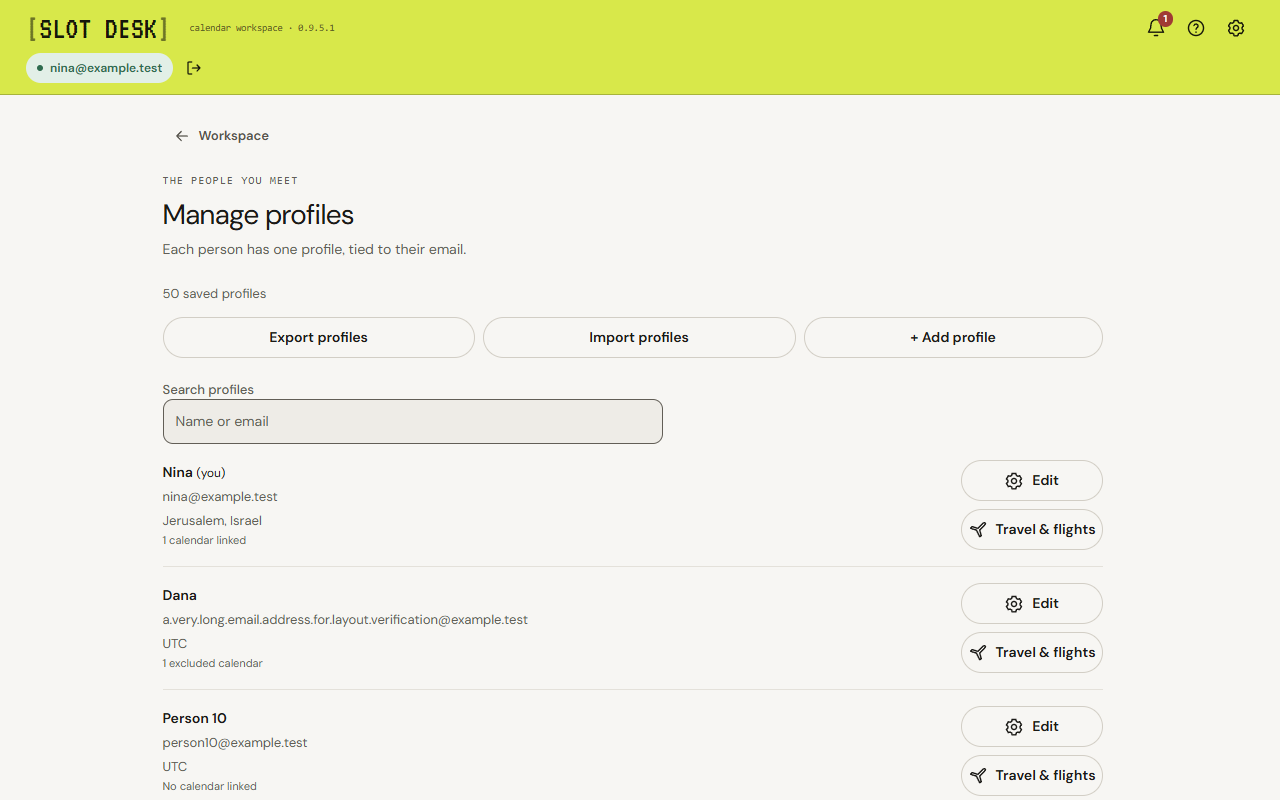
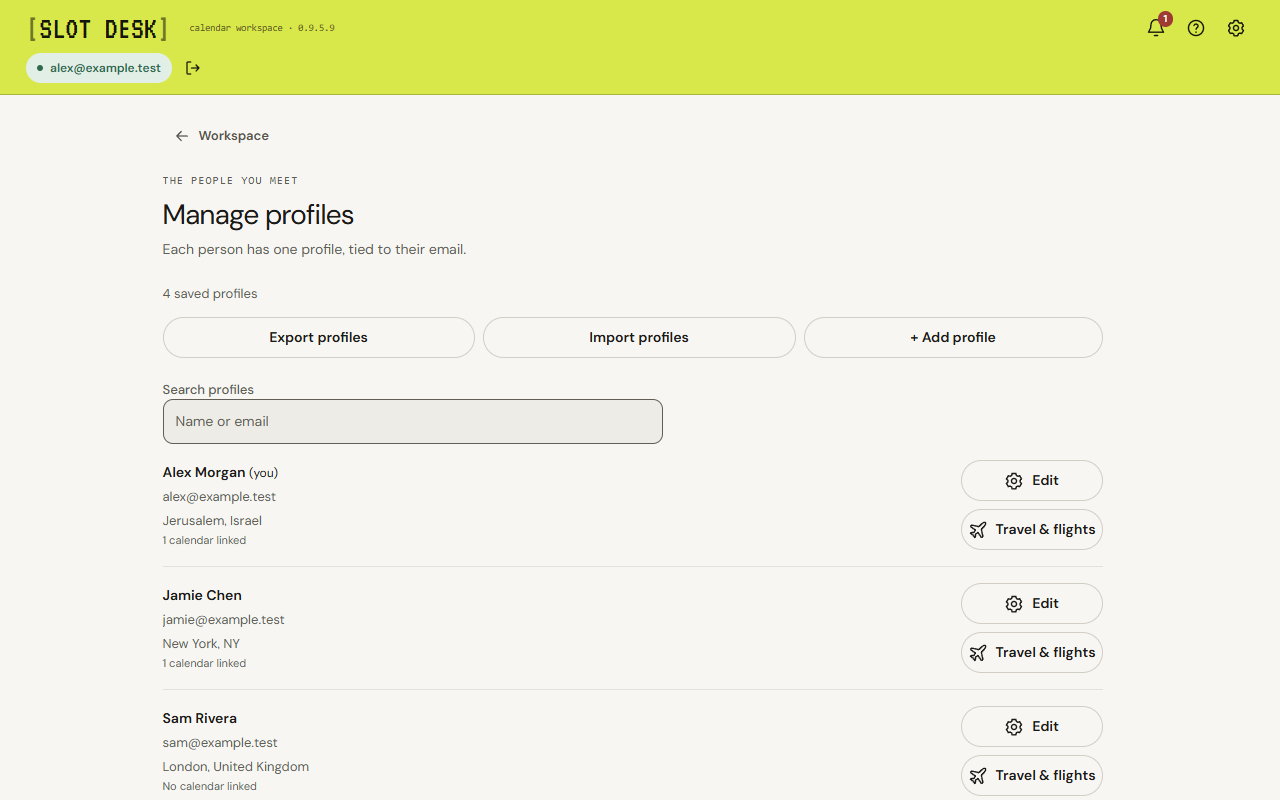
Refresh store screenshots with current interface and example profiles

diff --git a/docs/store-kit/README.md b/docs/store-kit/README.md
@@ -17,6 +17,6 @@ Support is [support@buildwithspeedy.com](mailto:support@buildwithspeedy.com), an
 
 ## Media
 
-`media/01-workspace.png`, `02-profiles.png` and `03-existing-meetings.png` are 1280×800 draft screenshots captured from the actual interface with synthetic calendars. `media/store-logo-128.png` and `store-logo-512.png` are unchanged copies of the approved icon. Screenshots show the preparation build and must be regenerated for the final submitted build.
+`media/01-workspace.png`, `02-profiles.png`, `03-existing-meetings.png` and `04-meeting-options.png` are 1280×800 RGB screenshots captured on 28 October 2026 from the actual 0.9.5.9 interface with example calendars and profiles. No real account connection or Calendar write was used. Suggested upload order: meeting options, workspace, profiles, existing meetings. `media/store-logo-128.png` and `store-logo-512.png` are unchanged copies of the approved icon. Refresh the screenshots when preparing the final 1.0.0 build.
 
 Chrome accepts 1–5 screenshots at 1280×800; Edge accepts up to six, including this size. Firefox listing images can reuse the captures where the resulting Firefox UI matches. [Chrome listing guidance](https://developer.chrome.com/docs/webstore/cws-dashboard-listing), [Edge listing guidance](https://learn.microsoft.com/en-us/microsoft-edge/extensions/publish/publish-extension).
